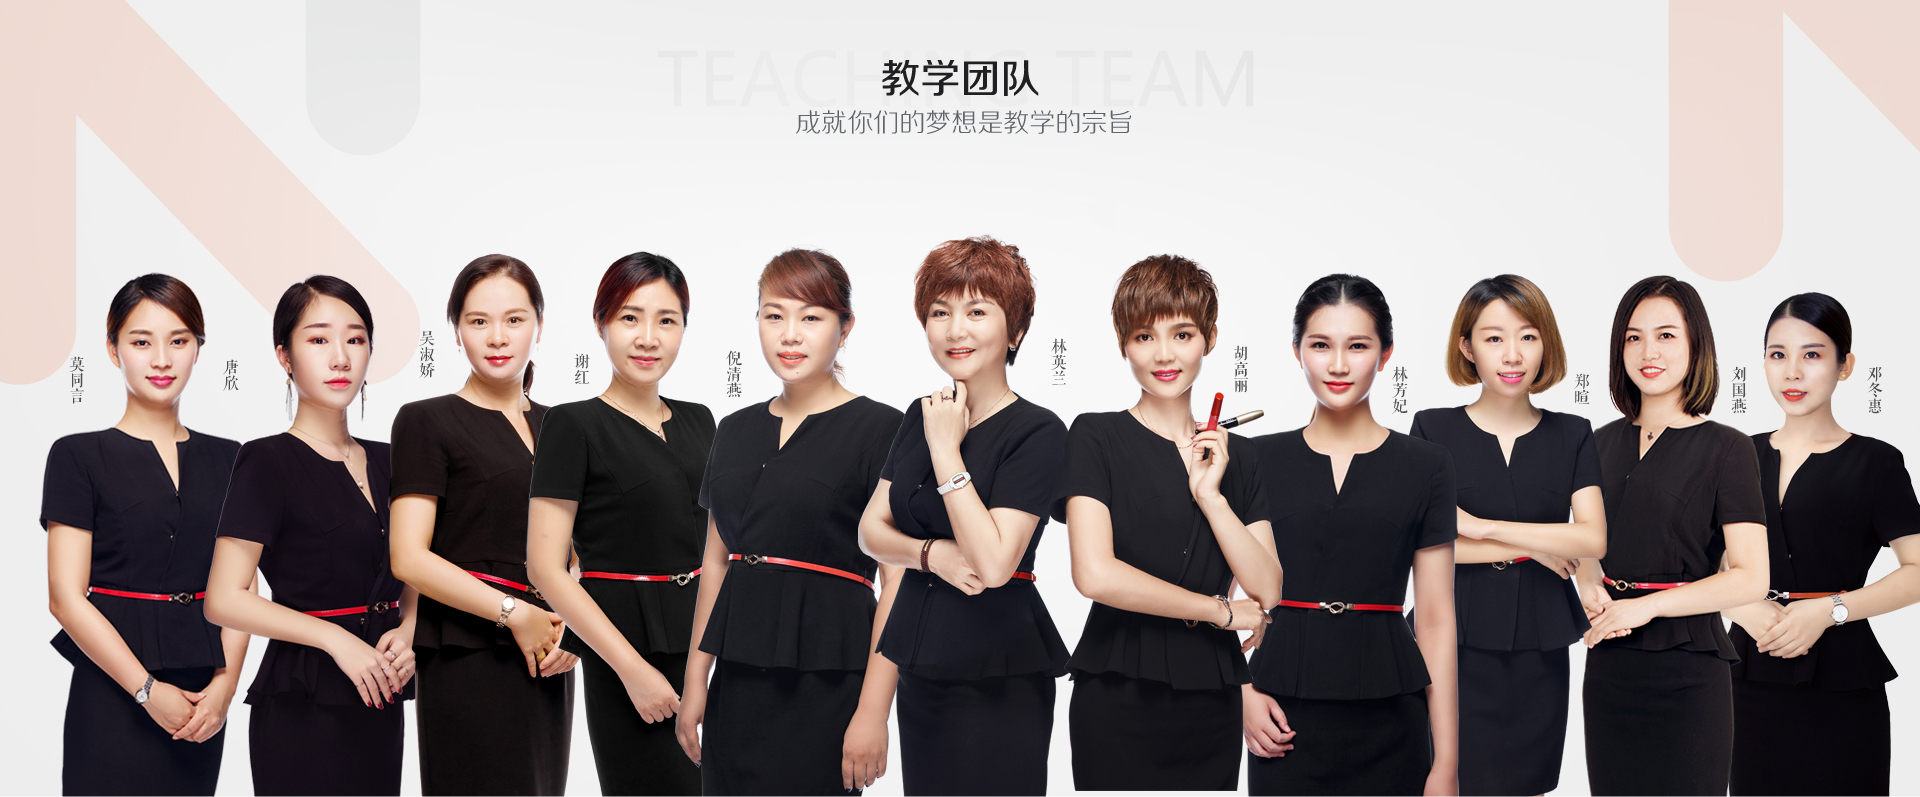
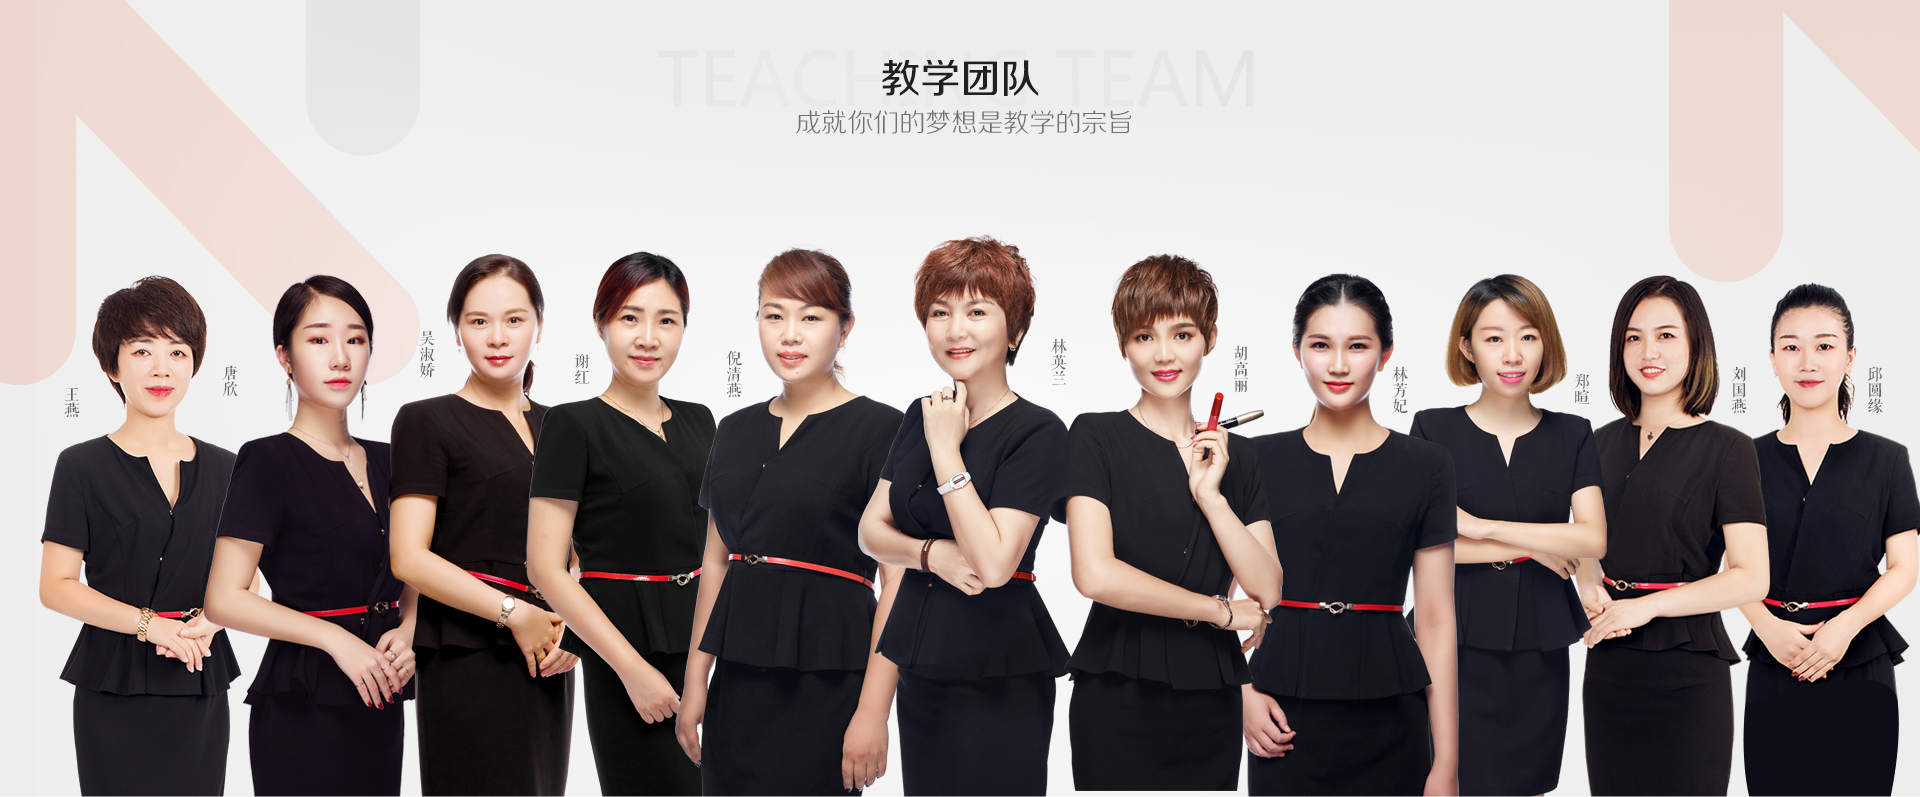
首页离职老师更换
首页离职老师更换

Changed region(s): [[0.0, 0.3312, 0.1562, 1.0], [0.875, 0.3614, 1.0, 1.0]]

diff --git a/www.hkhongzhuang.com/templets/xuexiao/index.htm b/www.hkhongzhuang.com/templets/xuexiao/index.htm
@@ -208,7 +208,7 @@
             </div>
             <!--师资力量-->
             <div class="tea _w1440">
-                <img data-original="{dede:global.cfg_imgpath/}/pc/index_tea_banner.jpg?v=20190403" class="index_tea_banner lay_com" alt="">
+                <img data-original="{dede:global.cfg_imgpath/}/pc/index_tea_banner.jpg?v=20190415" class="index_tea_banner lay_com" alt="">
                 <p class="index_zx"><a href="javascript:;" class="j-consult">咨询了解</a></p>
                 <p class="index_more"><a href="/faculty/">查看更多</a></p>
             </div>
